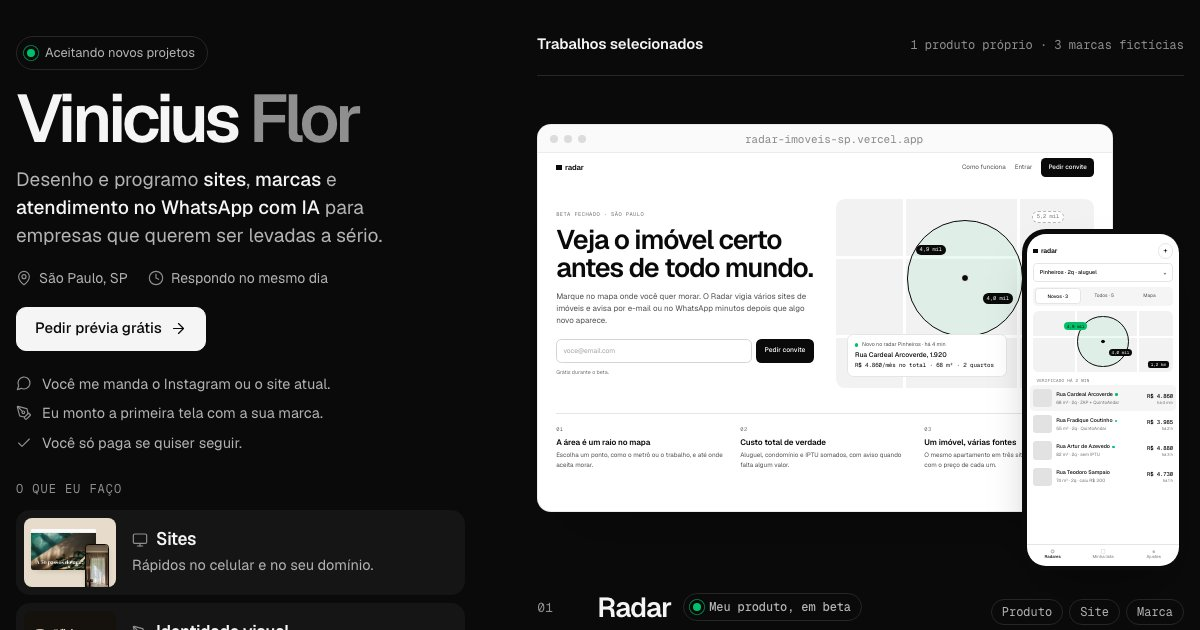
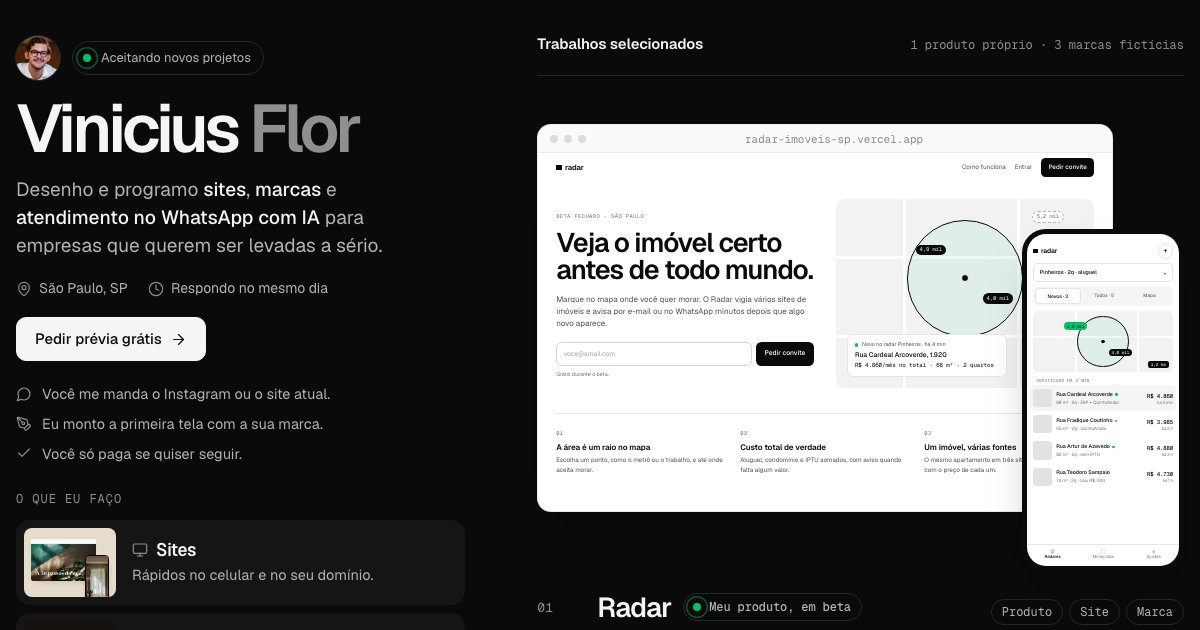
Foto no topo e no contato

diff --git a/index.html b/index.html
@@ -373,6 +373,8 @@ img { display: block; max-width: 100%; }
 .meta span { display: inline-flex; align-items: center; gap: 7px; }
 .meta .ic { font-size: 16px; color: var(--ink-3); }
 .av { width: 48px; height: 48px; border-radius: 50%; background: var(--ink); color: var(--bg); display: grid; place-items: center; font: 600 16px/1 var(--f-sans); letter-spacing: -0.03em; flex: none; }
+img.av { object-fit: cover; background: var(--surface); box-shadow: 0 0 0 1px var(--line); }
+.contact img.av { width: 56px; height: 56px; }
 .credit { font: 11px var(--f-mono); color: var(--ink-3); }
 
 @media (prefers-reduced-motion: reduce) { .page, .old .ld i { transition: none !important; animation: none !important; } }
@@ -388,6 +390,8 @@ main, .contact, footer { grid-column: 2; min-width: 0; }
 .who h1 span { color: var(--ink-3); }
 .who .st { font-size: clamp(18px, 1.6vw, 21px); line-height: 1.45; color: var(--ink-2); max-width: 34ch; text-wrap: pretty; }
 .who .st b { color: var(--ink); font-weight: 500; }
+.who .top { display: flex; align-items: center; gap: 12px; }
+.who .top .av { width: 44px; height: 44px; }
 .who .row { display: flex; gap: 8px; flex-wrap: wrap; }
 
 .pv { list-style: none; margin: 4px 0 0; padding: 0; display: grid; gap: 8px; font-size: 14.5px; color: var(--ink-2); }
@@ -487,7 +491,7 @@ footer { display: flex; justify-content: space-between; gap: 12px; flex-wrap: wr
 <div class="wrap" id="inicio">
   <aside>
     <div class="who">
-      <span class="status"><span class="dot" aria-hidden="true"></span>Aceitando novos projetos</span>
+      <div class="top"><img class="av" src="img/vinicius.webp" alt="Foto de Vinicius Flor" width="48" height="48"><span class="status"><span class="dot" aria-hidden="true"></span>Aceitando novos projetos</span></div>
       <h1>Vinicius <span>Flor</span></h1>
       <p class="st">Desenho e programo <b>sites</b>, <b>marcas</b> e <b>atendimento no WhatsApp com IA</b> para empresas que querem ser levadas a sério.</p>
       <div class="meta"><span><svg class="ic"><use href="#i-pin"/></svg>São Paulo, SP</span><span><svg class="ic"><use href="#i-clock"/></svg>Respondo no mesmo dia</span></div>
@@ -733,7 +737,7 @@ footer { display: flex; justify-content: space-between; gap: 12px; flex-wrap: wr
   </main>
 
   <section class="contact" id="contato" aria-labelledby="ct-t">
-    <div class="h"><span class="av" aria-hidden="true">VF</span><p><b>Vinicius Flor</b>Quem responde é quem faz o seu site.</p></div>
+    <div class="h"><img class="av" src="img/vinicius.webp" alt="Foto de Vinicius Flor" width="48" height="48"><p><b>Vinicius Flor</b>Quem responde é quem faz o seu site.</p></div>
     <div>
       <h2 id="ct-t">Vamos ver o seu?</h2>
       <p class="lead">Me mande o nome da empresa ou o endereço do site. Eu respondo com um diagnóstico e uma prévia com a sua marca. O orçamento vem depois, sob medida para o tamanho do projeto.</p>
